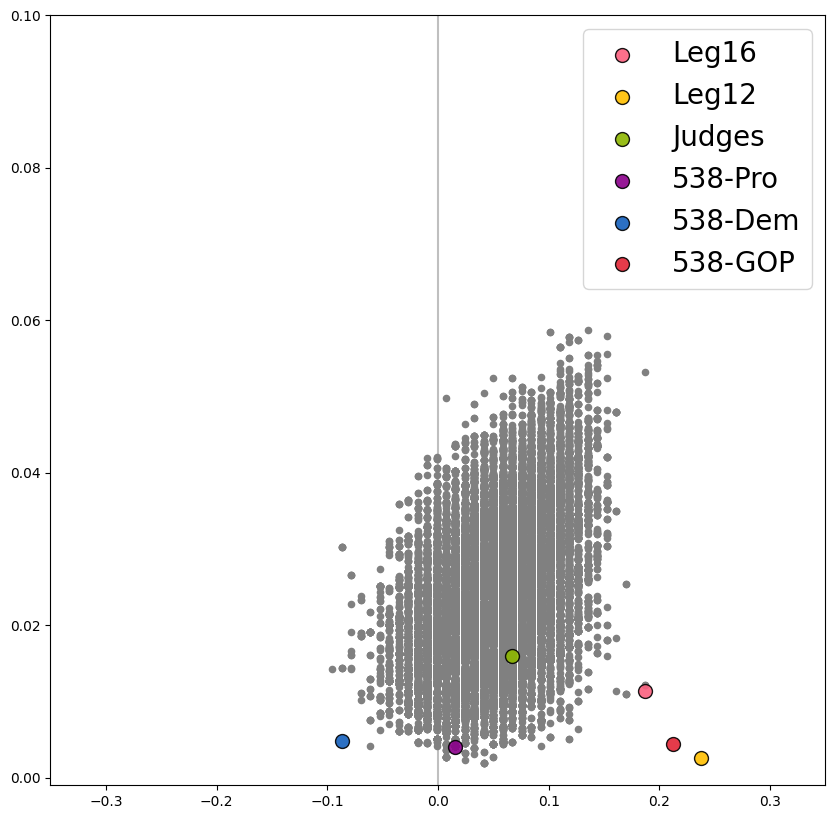
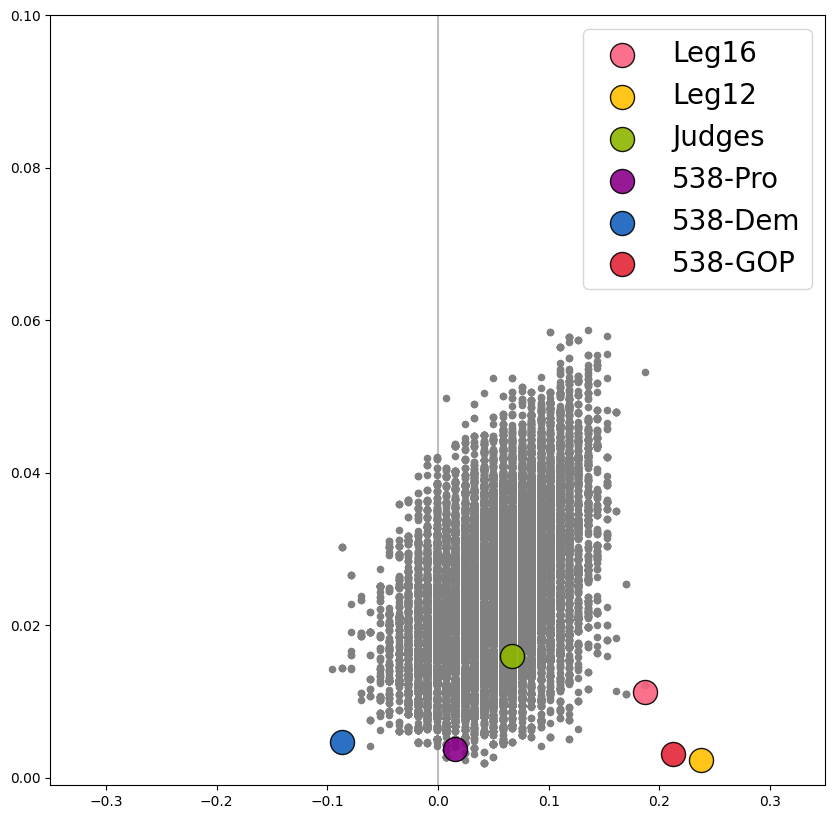
add fixes

diff --git a/make_scatters.py b/make_scatters.py
@@ -6,7 +6,7 @@ import pandas as pd
 import numpy as np
 import random
 
-def make_xy_jitter(scale=1000):
+def make_xy_jitter(scale=500):
     x_jitter = np.random.random() / scale
     y_jitter = np.random.random() / scale
     if np.random.random() < 0.5:
@@ -21,7 +21,8 @@ def main():
     "538-GOP": '#E32636',
     "538-Pro": '#8B008B'
     }
-    for state in ["WI", "PA", "MD", "MA", "TX", "NC"]:
+    # for state in ["WI", "PA", "MD", "MA", "TX", "NC"]:
+    for state in ["PA"]:
         plan_mvs = pd.read_csv(f"outputs/{state}/{state}_mean_var_stats.csv", index_col=0)
         df = pd.read_csv(f"outputs/{state}/{state}_disprop_scores_100000.csv")
         variances, means = find_variances_and_means(df)
@@ -40,7 +41,7 @@ def main():
             mean = plan_mvs.loc[plan]['disprop_mean']
             var = plan_mvs.loc[plan]['disprop_var']
             x_jit, y_jit = make_xy_jitter()
-            plt.scatter(mean, var + y_jit, label=nice_name, color=color, s=100, edgecolors='black', alpha=0.9)
+            plt.scatter(mean, var + y_jit, label=nice_name, color=color, s=300, edgecolors='black', alpha=0.9)
 
         ax.set_xlim(-0.35, 0.35)
         ax.set_ylim(-0.001, 0.1)
